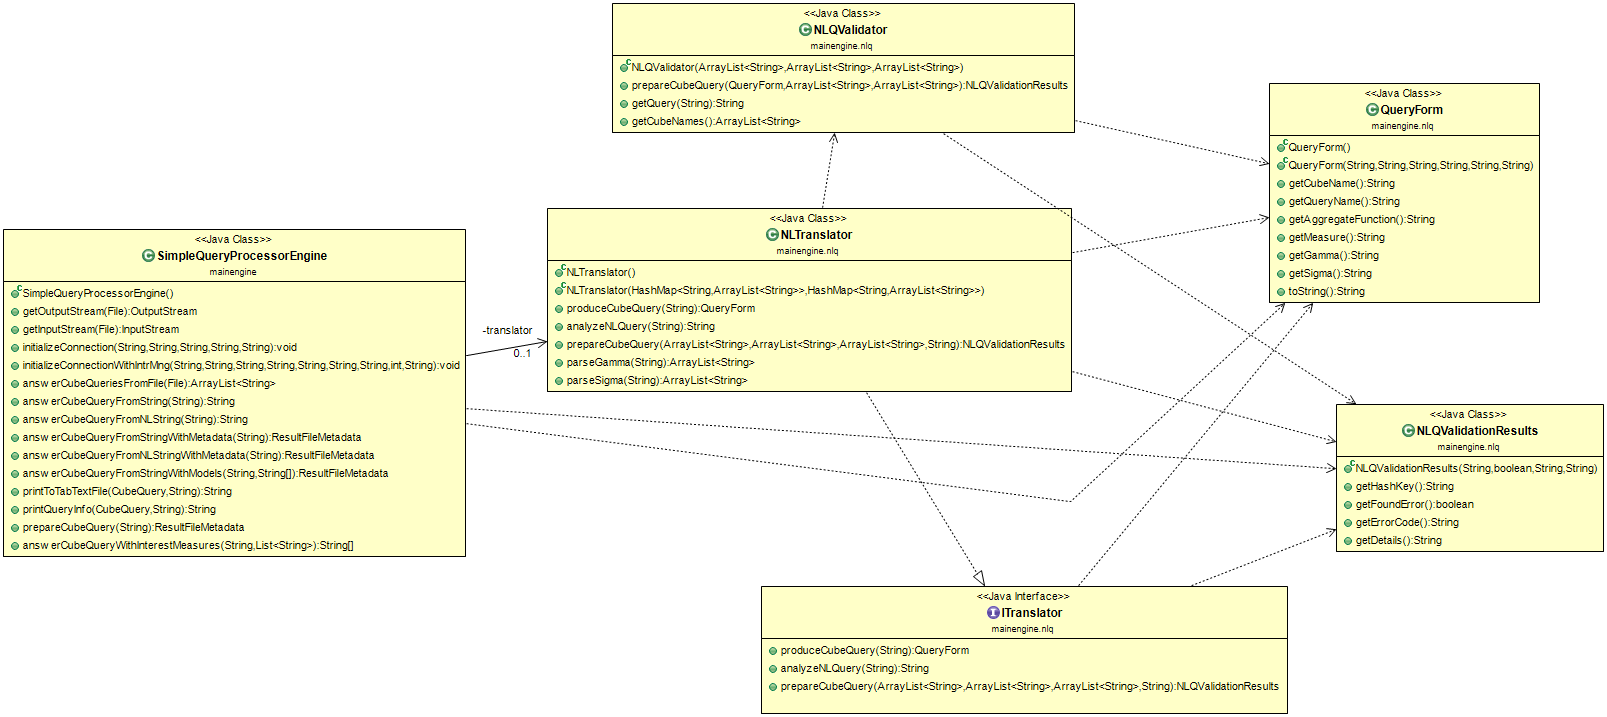
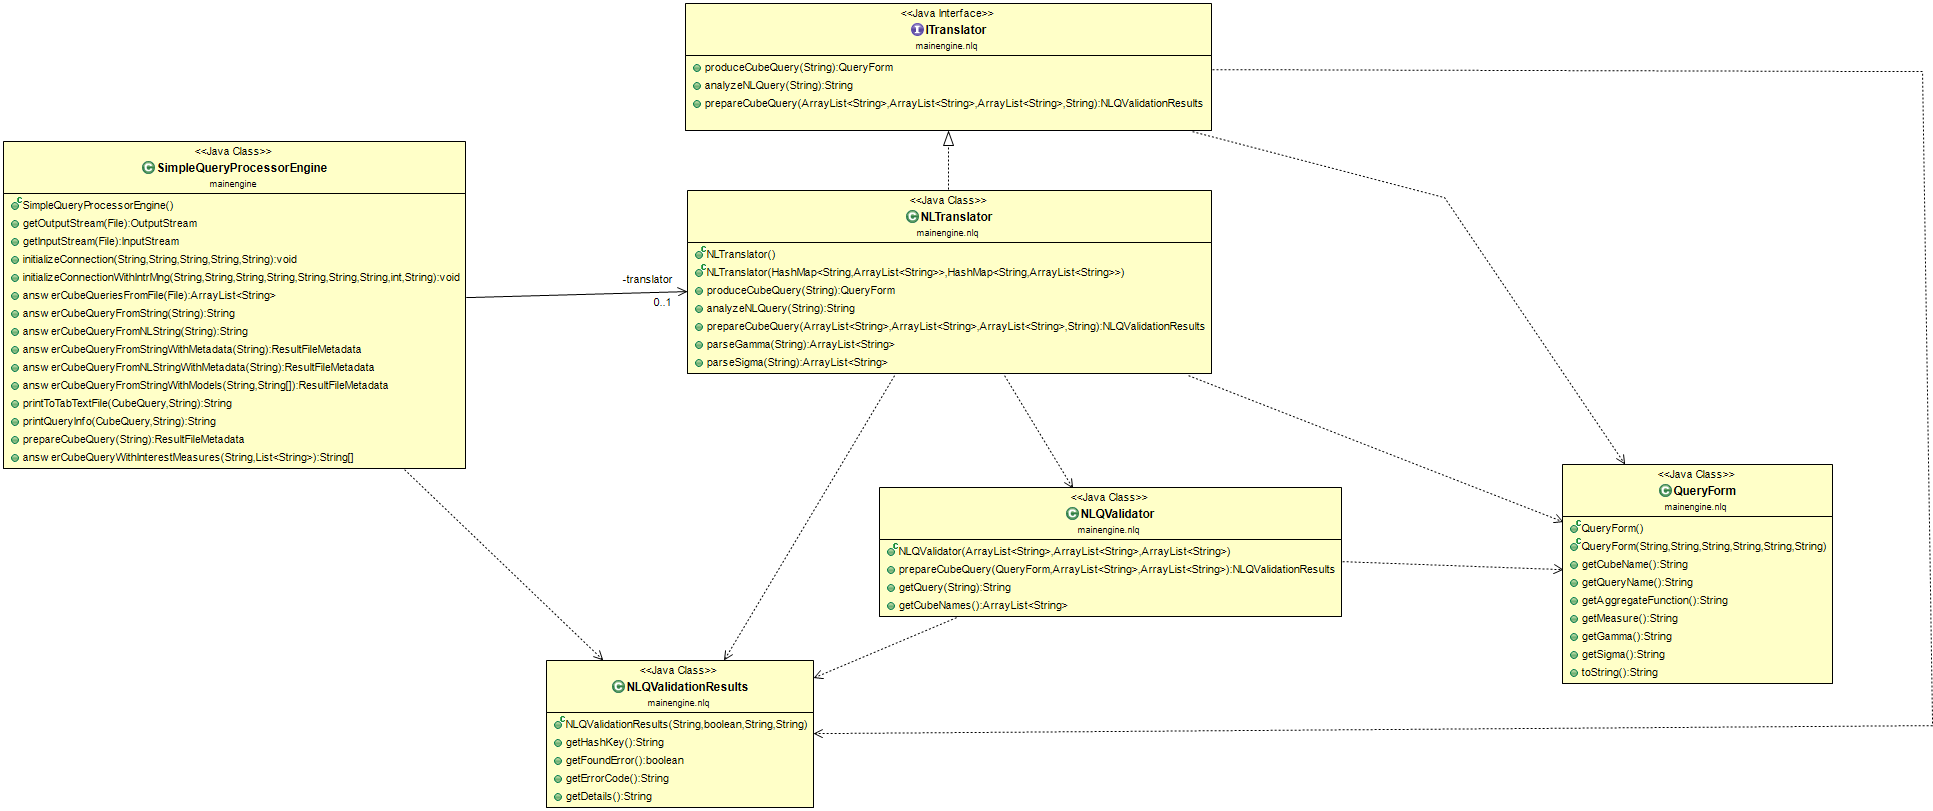
NLQ refactoring
Small renamings + comment fixes in SQP, Itranslator
Updates to dbc.ini with the correct string for jdbc
Updates to several class diagrams

diff --git a/src/mainengine/nlq/ITranslator.java b/src/mainengine/nlq/ITranslator.java
@@ -7,29 +7,8 @@ import java.util.ArrayList;
  *
  */
 public interface ITranslator {
-	
 	/**
-	 * Produces an object with the cube query components in its fields from a natural language query.
-	 * It produces the equivalent Cube Query without analyzing the gamma and sigma components for errors.
-	 * @param NLQuery A String with the natural language query.
-	 * @return A QueryForm object with the cube query in its components.
-	 * @author DimosGkitsakis
-	 */
-	QueryForm produceCubeQuery(String NLQuery);
-	
-	
-	/**
-	 * Analyzes a natural language query, producing a QueryForm object which contains the equivalent cube query in its fields.
-	 * @param NLQuery	The natural language query.
-	 * @return	A String with the cube query.
-	 * @author DimosGkitsakis
-	 */
-	String analyzeNLQuery(String NLQuery);
-	
-	
-	
-	/**
-	 * Gets all the needed metadata and the natural language query in order to check the query for possible errors.
+	 * Produces an assessment of the syntactic correctness of a candidate NL query, given its components as Lists of Strings.
 	 *
 	 * 
 	 * @param cubeNames An ArrayList of String with the cube names given by server.
@@ -40,6 +19,30 @@ public interface ITranslator {
 	 * @author DimosGkitsakis
 	 */
 	NLQValidationResults prepareCubeQuery(ArrayList<String> cubeNames, ArrayList<String> aggrFunctions,
-										ArrayList<String> measures, String queryString); 
+										ArrayList<String> measures, String queryString);
+	
+	
+	/**
+	 * Produces a QueryForm object  from a natural language query, with the cube query components in its fields.
+	 * 
+	 * An IproduceCubeQuery() invocation produces the equivalent Query Form object (modeling all the components of a query as strings)
+	 * without analyzing the gamma and sigma components for errors.
+	 * 
+	 * @param NLQuery A String with the natural language query.
+	 * @return A QueryForm object with the cube query in its components.
+	 * @author DimosGkitsakis
+	 */
+	QueryForm produceCubeQuery(String NLQuery);
+	
+	
+	/**
+	 * Translates a natural language query to a string expressing the cube query 
+	 * 
+	 * @param NLQuery	The natural language query.
+	 * @return	A String with the cube query.
+	 * @author DimosGkitsakis
+	 */
+	String analyzeNLQuery(String NLQuery);
+ 
 	
 }

diff --git a/src/mainengine/SimpleQueryProcessorEngine.java b/src/mainengine/SimpleQueryProcessorEngine.java
@@ -655,18 +655,20 @@ System.out.println("@SRV: INFO FILE\t" + resMetadata.getResultInfoFile());
 	
 	
 	/**
+	 * Validates a natural language Query String and returns a ResultFileMetadata object with the result.
+	 * 
 	 * Gets the natural language query from a string, passes it to a NLTranslator object, which parses it and produces error messages if any errors where found.
 	 * The errors are returned to the client as a ErrorChecking.txt file, so the client can produce the error message to the end-user.
 	 *
 	 *@author DimosGkitsakis
-	 *@param queryString A String with the natural language query given by the user.
+	 *@param naturalLanguageQueryString A String with the natural language query given by the user.
 	 *@return a ResultFileMetadata object containing info on the location of the error checking file at the server
 	 */
 	@Override
-	public ResultFileMetadata prepareCubeQuery(String queryString) throws RemoteException {
+	public ResultFileMetadata prepareCubeQuery(String naturalLanguageQueryString) throws RemoteException {
 		
 		translator = new NLTranslator(dimensionsToLevelsHashmap, levelsToDimensionsHashmap);
-		NLQValidationResults results = translator.prepareCubeQuery(cubeNames, aggrFunctions, measures, queryString);
+		NLQValidationResults results = translator.prepareCubeQuery(cubeNames, aggrFunctions, measures, naturalLanguageQueryString);
 		
 		String errorCheckingInfoOutput = this.printErrorCheckingResultsToFile(results,"OutputFiles" + File.separator + "ErrorChecking.txt");
 		

diff --git a/README.md b/README.md
@@ -14,16 +14,20 @@ This project implements a simple query engine that receives cube queries and ret
 
 
 ## Usage
-For v.0.1 and v.0.2, the usage is simple:
+For v.0.1 - v.0.3, the usage is simple:
 1. Start your DBMS (MySQL) service, if not running
 2. Start the Server of the project
 3. Alternatives
 * Start the NaiveJavaClient of the project (query results are in the OutputFiles folder for the server and ClientCache for the client)
 * Start the MainApp client in the gui package. Its functionalities include launching queries from a stored file and loading tsv files. 
-* ... create a Client of your own
+* ... create a Client of your own (already having clients to work with interestingness and natural language queries)
 
 
 ## Credits and History
+
+### v.0.3 [2021 January]
+* D. Gkitsakis added the first v. of the natural language querying package (also: tests & clients) to allow the querying via natural language
+* E. Mouselli added the first v. of the interestingness package (also: tests & clients) to assess query interestingness
 
 ### v.0.2 [2018 August]
 P. Vassiliadis extended the engine with the generation of models for queries. Expansion of the GUI, the testing and refactorings also took place 
@@ -52,6 +56,8 @@ Community
 - [ ] ToDo: Must complement this file with a section on how to contribute. Sorry!
 
 Refactorings & Corrections
+- [ ] Expand natural language querying with more elegant solutions
+- [ ] Expand interestingness assessment with syntactic checks
 - [ ] Address the todo's inside the src
 - [ ] Introduce an intermediate abstraction level between cubebase and (relational) database, s.t., new DBMS types are pluggable
 - [ ] Refactor the GUI client, to kill cycles in the package diagram
